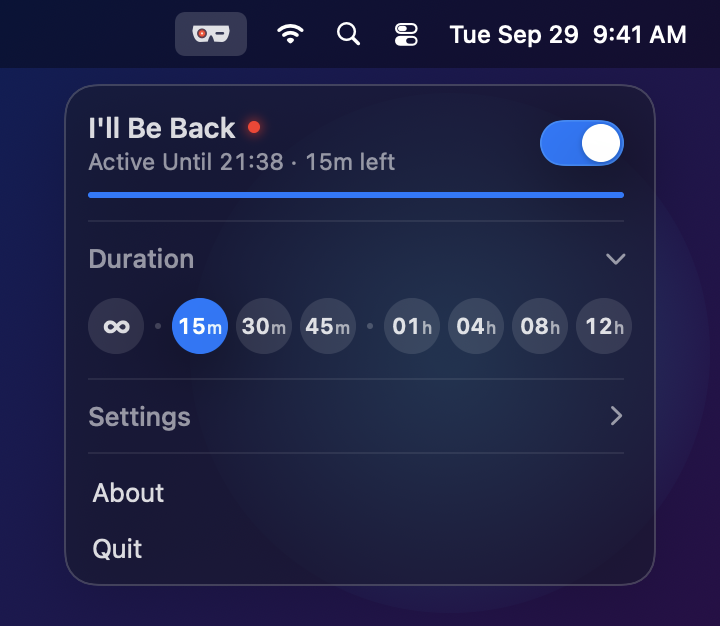
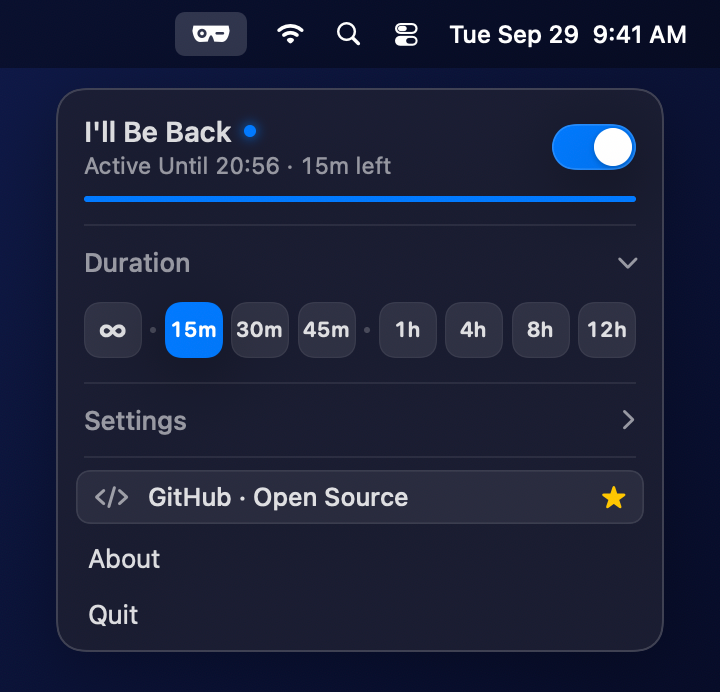
Add latest UI preview screenshots to README.md

diff --git a/README.md b/README.md
@@ -15,6 +15,14 @@
   </a>
 </p>
 
+<p align="center">
+  <img src="Resources/previews/popover_light_duration.png" width="270" alt="Light Mode Duration Tiles" />
+  &nbsp;&nbsp;
+  <img src="Resources/previews/popover_dark_timer.png" width="270" alt="Dark Mode Countdown Timer" />
+  &nbsp;&nbsp;
+  <img src="Resources/previews/popover_dark_settings_cyber.png" width="270" alt="Dark Mode 3-Group Settings" />
+</p>
+
 ---
 
 ## ✨ Features
